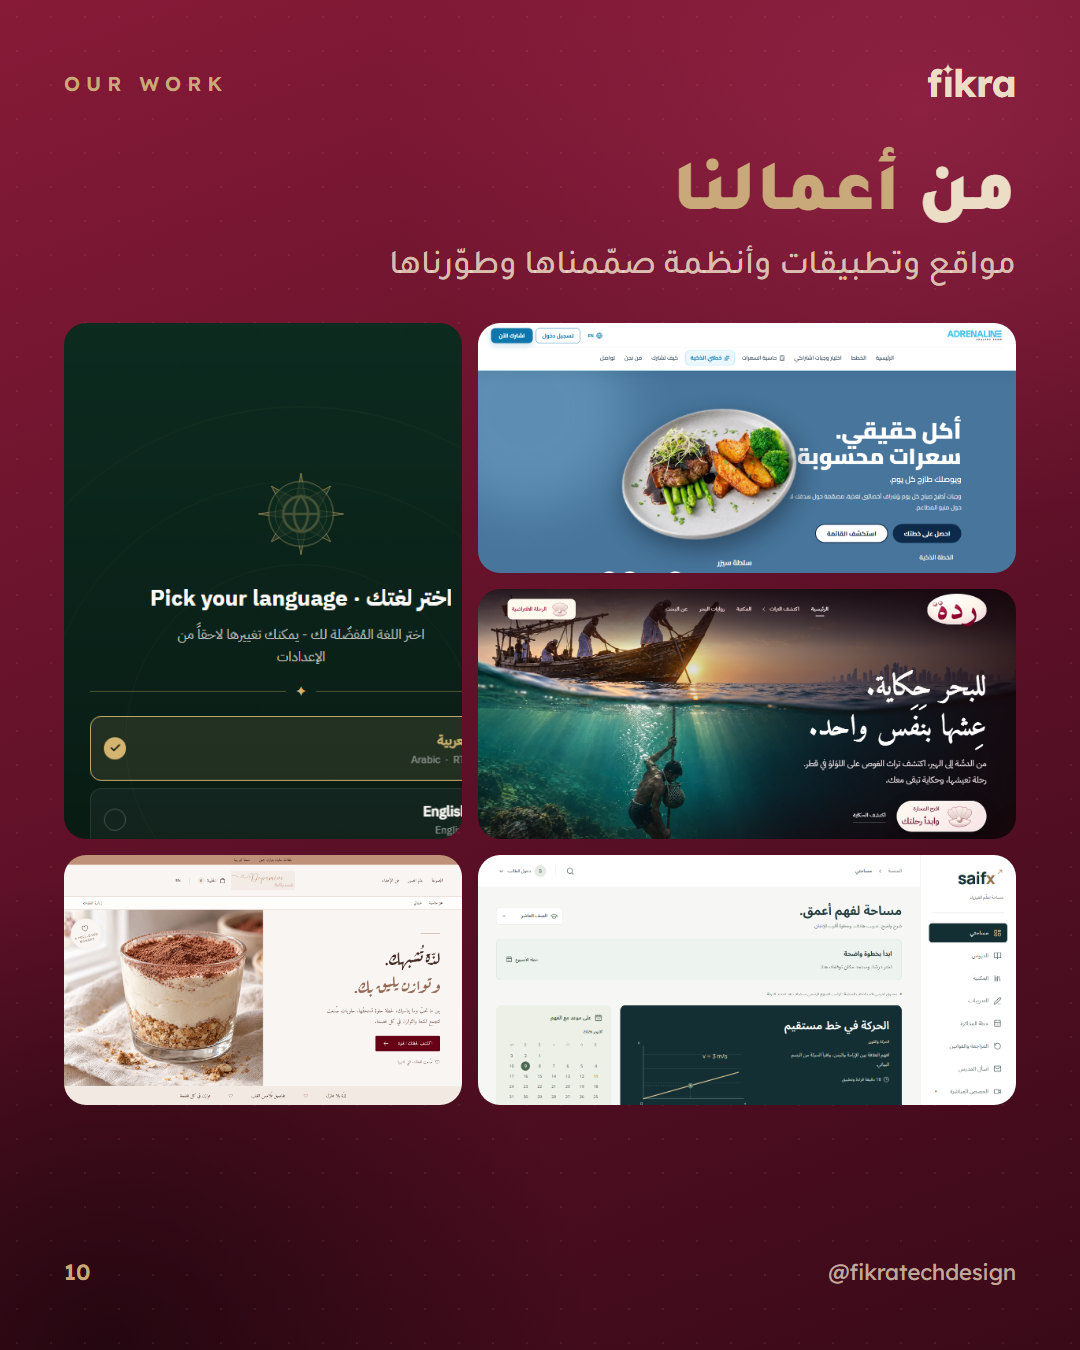
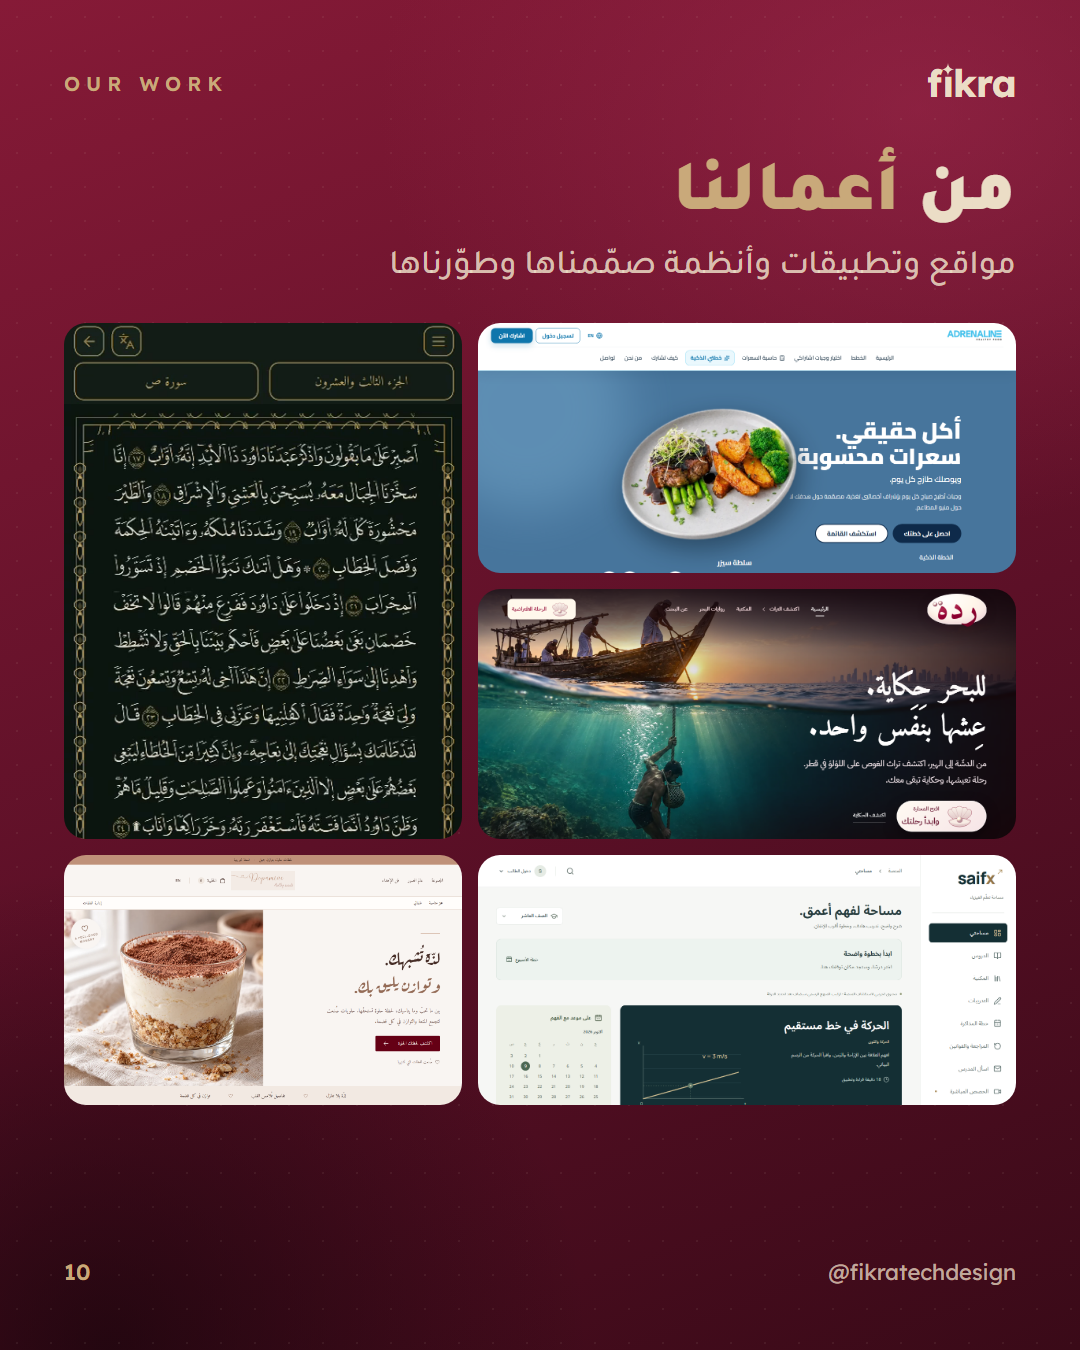
Collage uses Nafahat Mushaf frame; add extracted app frames

Changed region(s): [[0.0611, 0.28, 0.4278, 0.6222], [0.0611, 0.2489, 0.1222, 0.28], [0.3972, 0.2489, 0.4278, 0.28]]

diff --git a/brand/instagram/posts.html b/brand/instagram/posts.html
@@ -146,7 +146,7 @@ const POSTS = {
    </div>
    <div style="position:relative;z-index:2;margin-top:34px;display:grid;grid-template-columns:1.35fr 1fr;grid-template-rows:250px 250px 250px;gap:16px">
      <img src="adrenaline-food.png" style="width:100%;height:100%;object-fit:cover;object-position:top;border-radius:22px;grid-row:span 1">
-     <img src="nafahat.png" style="width:100%;height:100%;object-fit:cover;object-position:top;border-radius:22px;grid-row:span 2">
+     <img src="naf-mushaf.png" style="width:100%;height:100%;object-fit:cover;object-position:top;border-radius:22px;grid-row:span 2">
      <img src="diving.png" style="width:100%;height:100%;object-fit:cover;object-position:top;border-radius:22px">
      <img src="saifx.png" style="width:100%;height:100%;object-fit:cover;object-position:top;border-radius:22px">
      <img src="dopamin.png" style="width:100%;height:100%;object-fit:cover;object-position:top;border-radius:22px">
